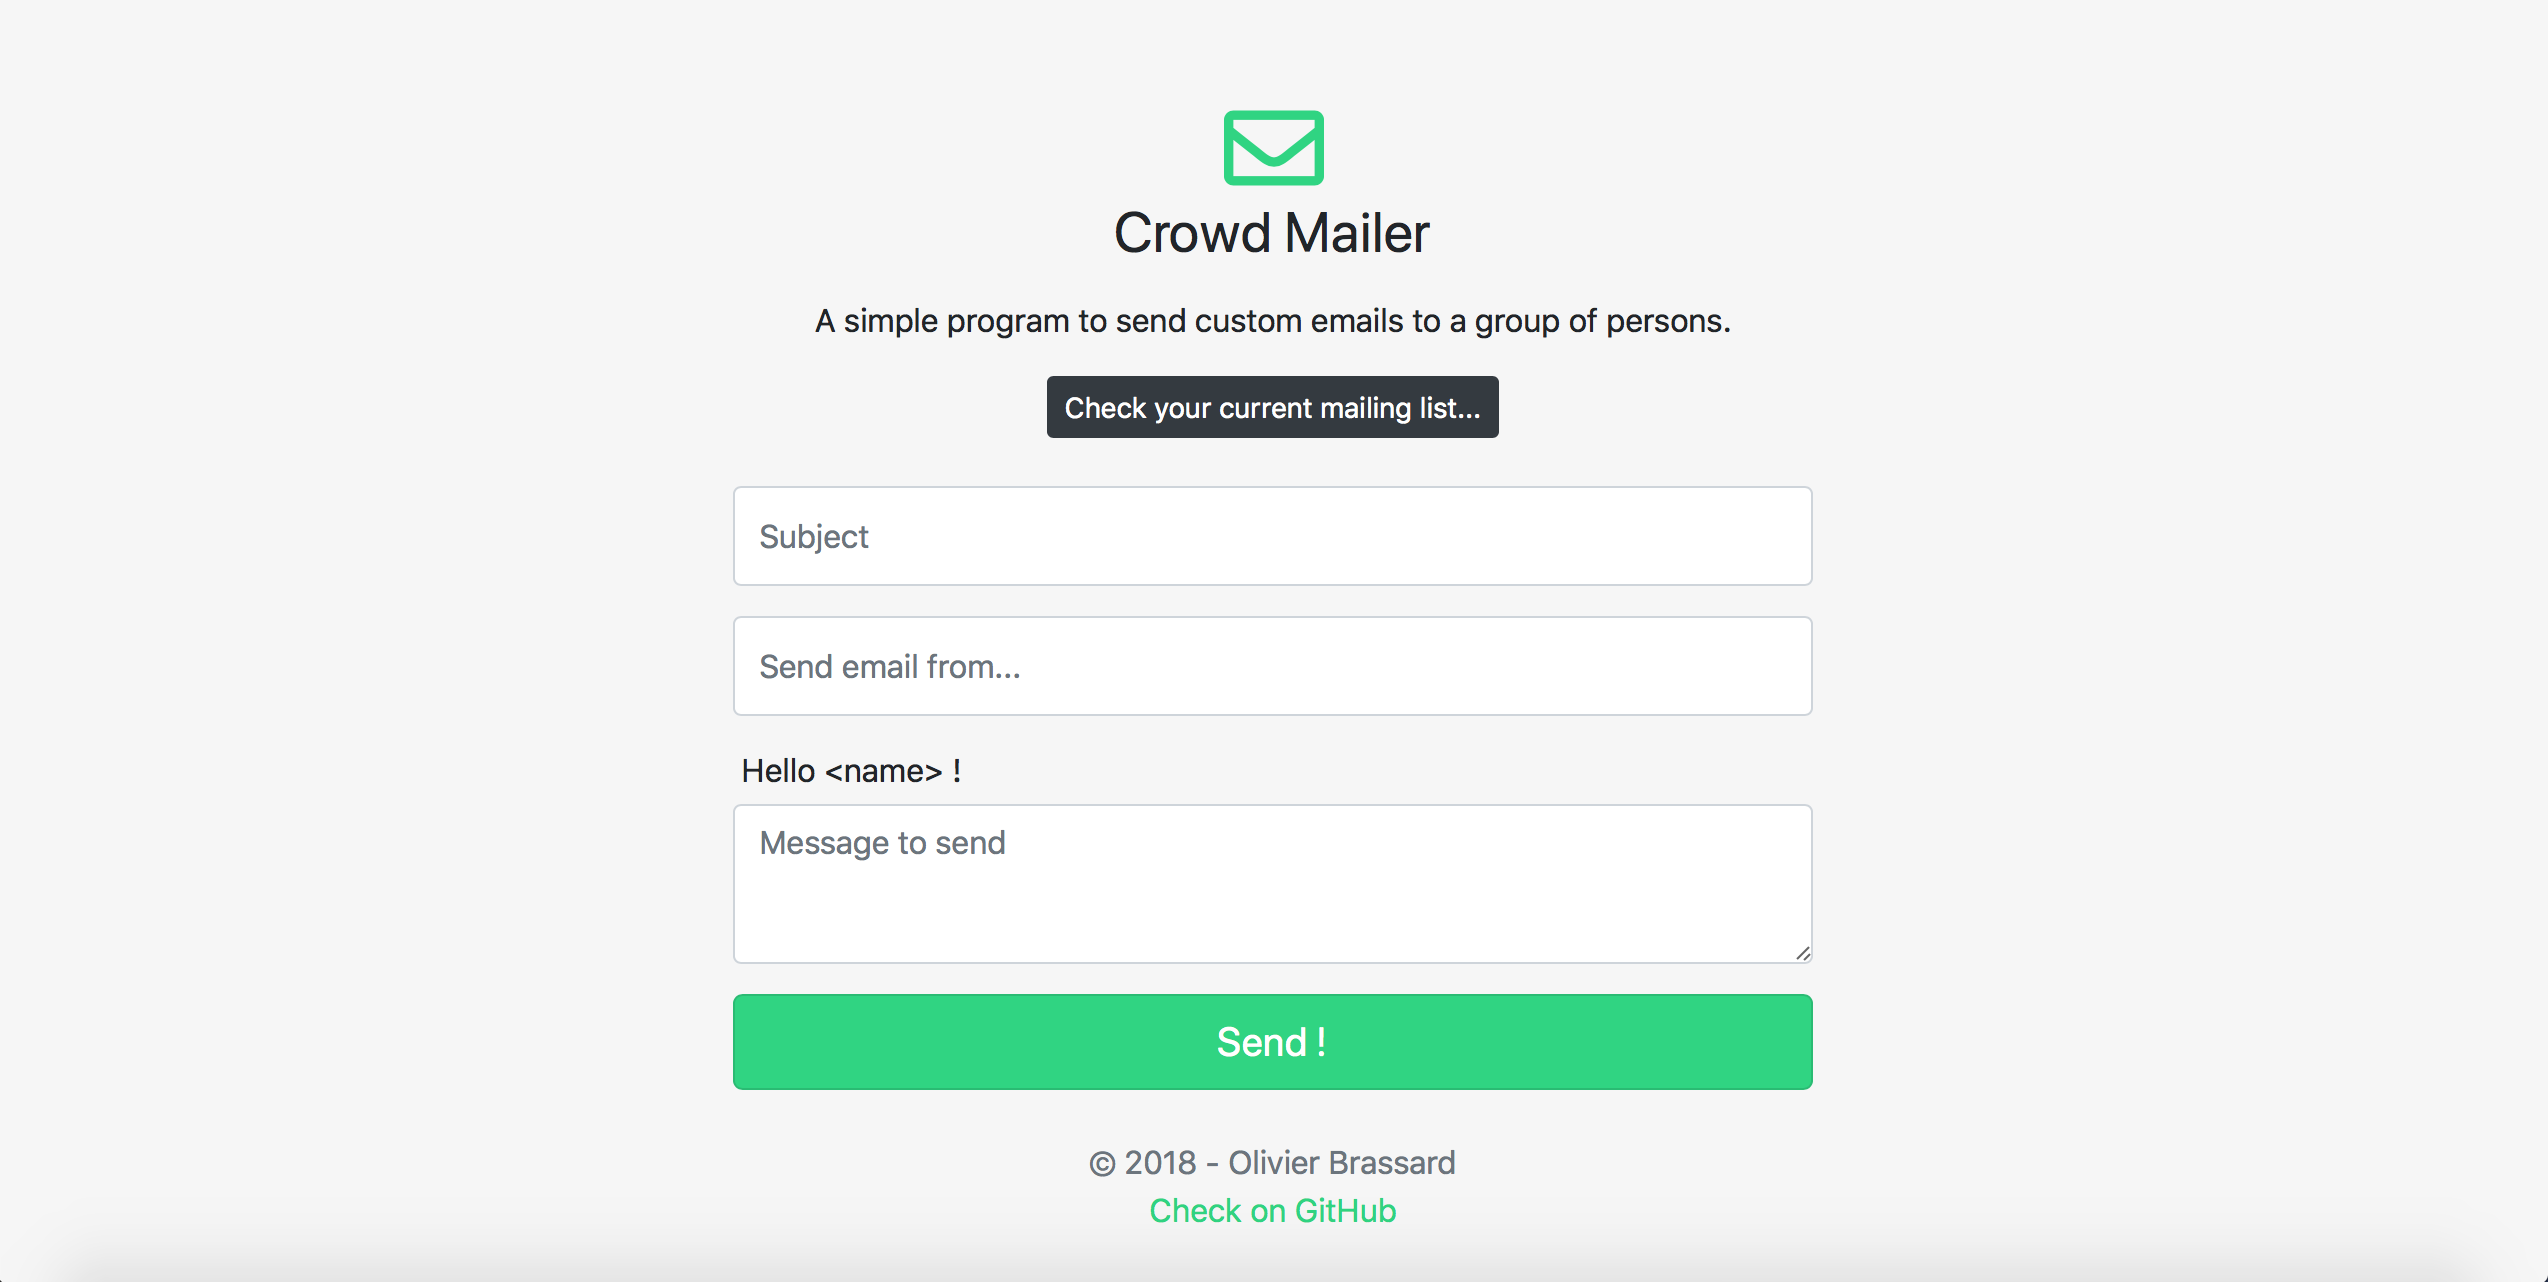
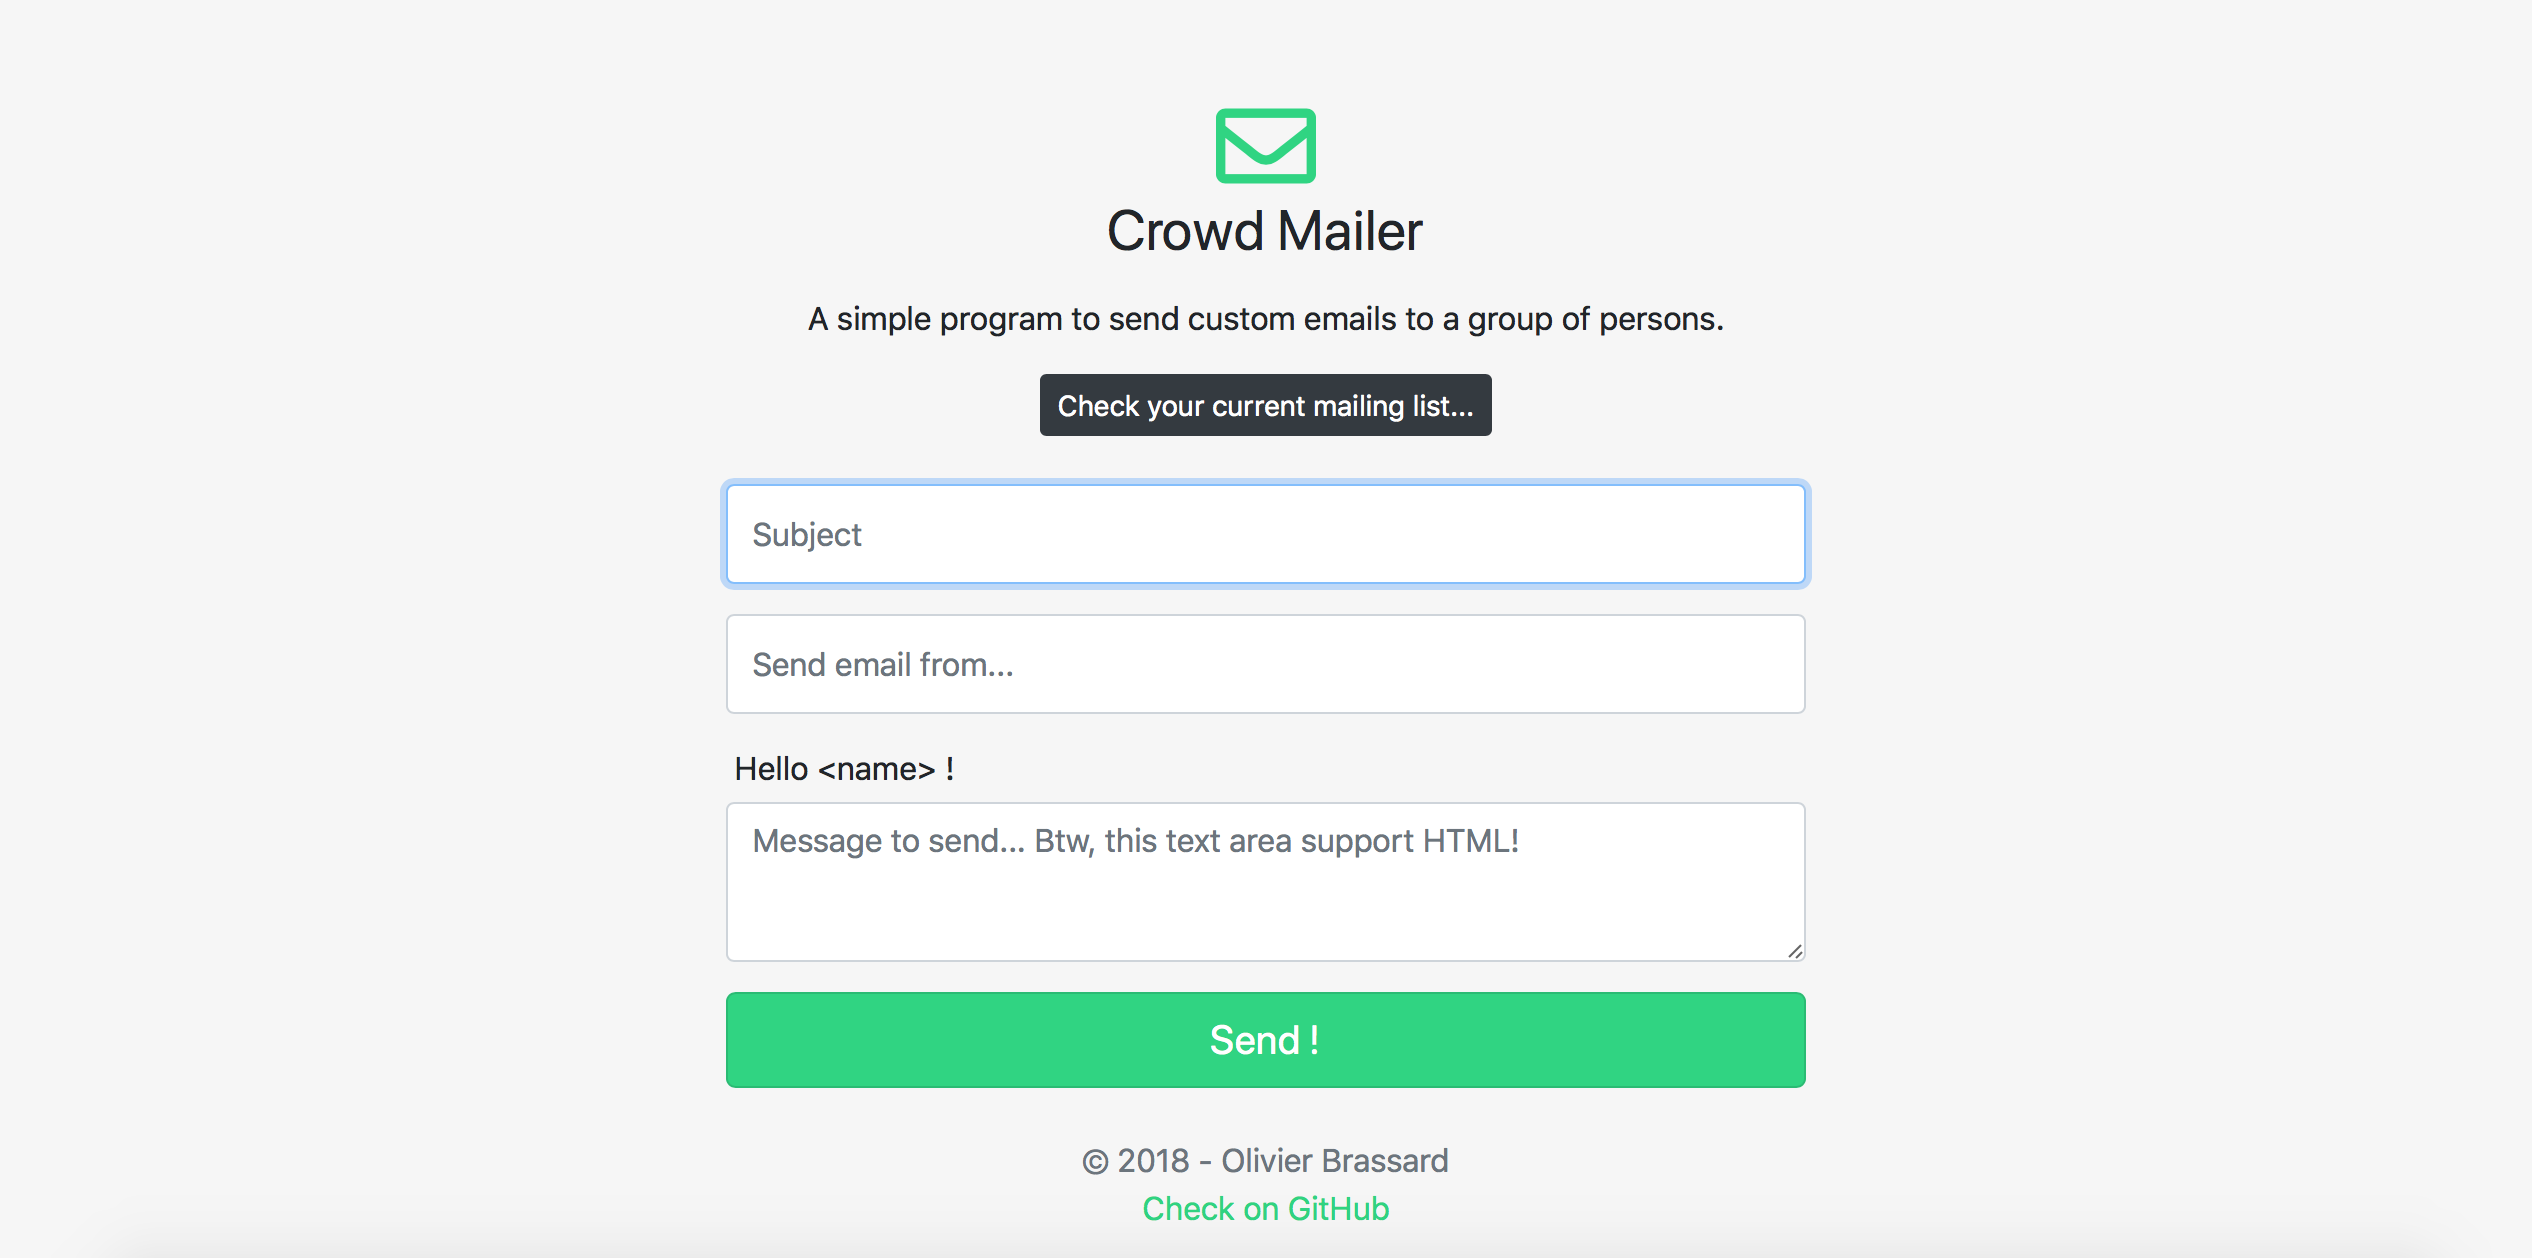
Message can now contain HTML

diff --git a/index.php b/index.php
@@ -56,7 +56,7 @@ $Emails = getEmails();
 
                         <div class="form-label-group">
                             &nbsp;Hello &lt;name&gt; !
-                            <textarea name="message" id="message" class="form-control" placeholder="Message to send" required ></textarea>
+                            <textarea name="message" id="message" class="form-control" placeholder="Message to send... Btw, this text area support HTML!" required ></textarea>
                         </div>
 
                         <button class="btn btn-lg btn-primary btn-block" type="submit">Send !</button>

diff --git a/crowdmailer.php b/crowdmailer.php
@@ -7,14 +7,15 @@
 
 require_once "dbfunctions.php";
 
-$messageBody = validatePost("message");
 $from = validatePost("from");
 $subject = validatePost("subject");
 
-if (!($messageBody && $from && $subject)){
+if (!(isset($_POST['message']) && $from && $subject)){
     header('Location: result.php?r=failed');
     die();
 }
+
+$messageBody = $_POST['message'];
 
 $headers = "From: ".$from."\r\n";
 $headers .= "Content-Type: text/html; charset=UTF-8\r\n";
